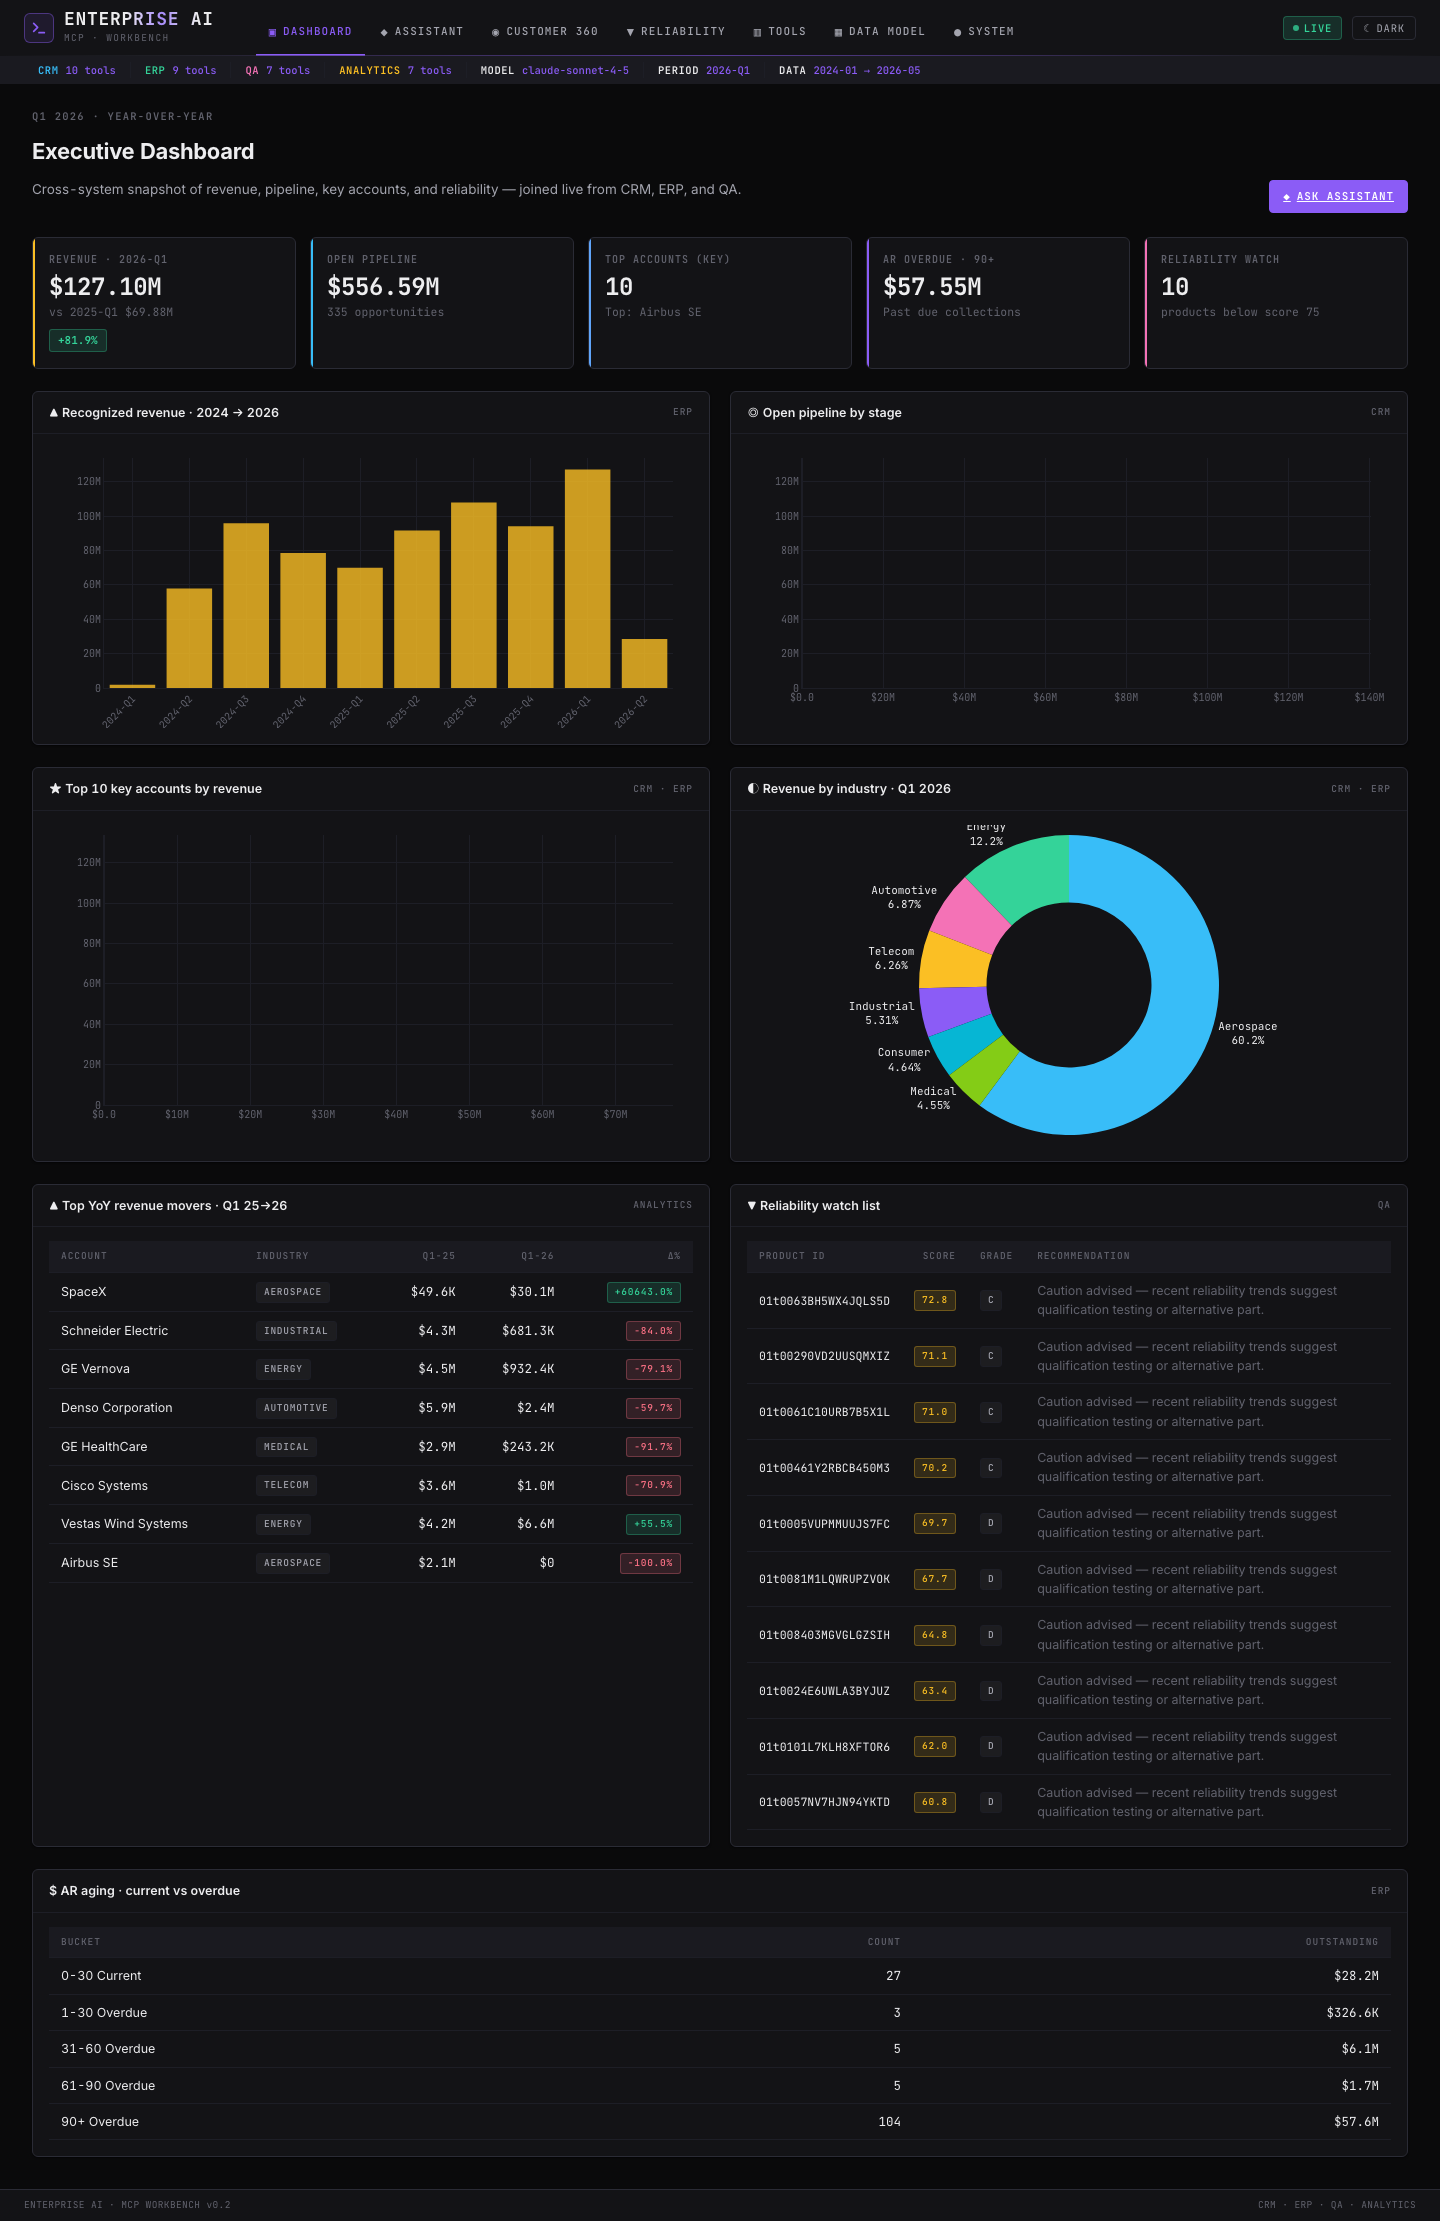
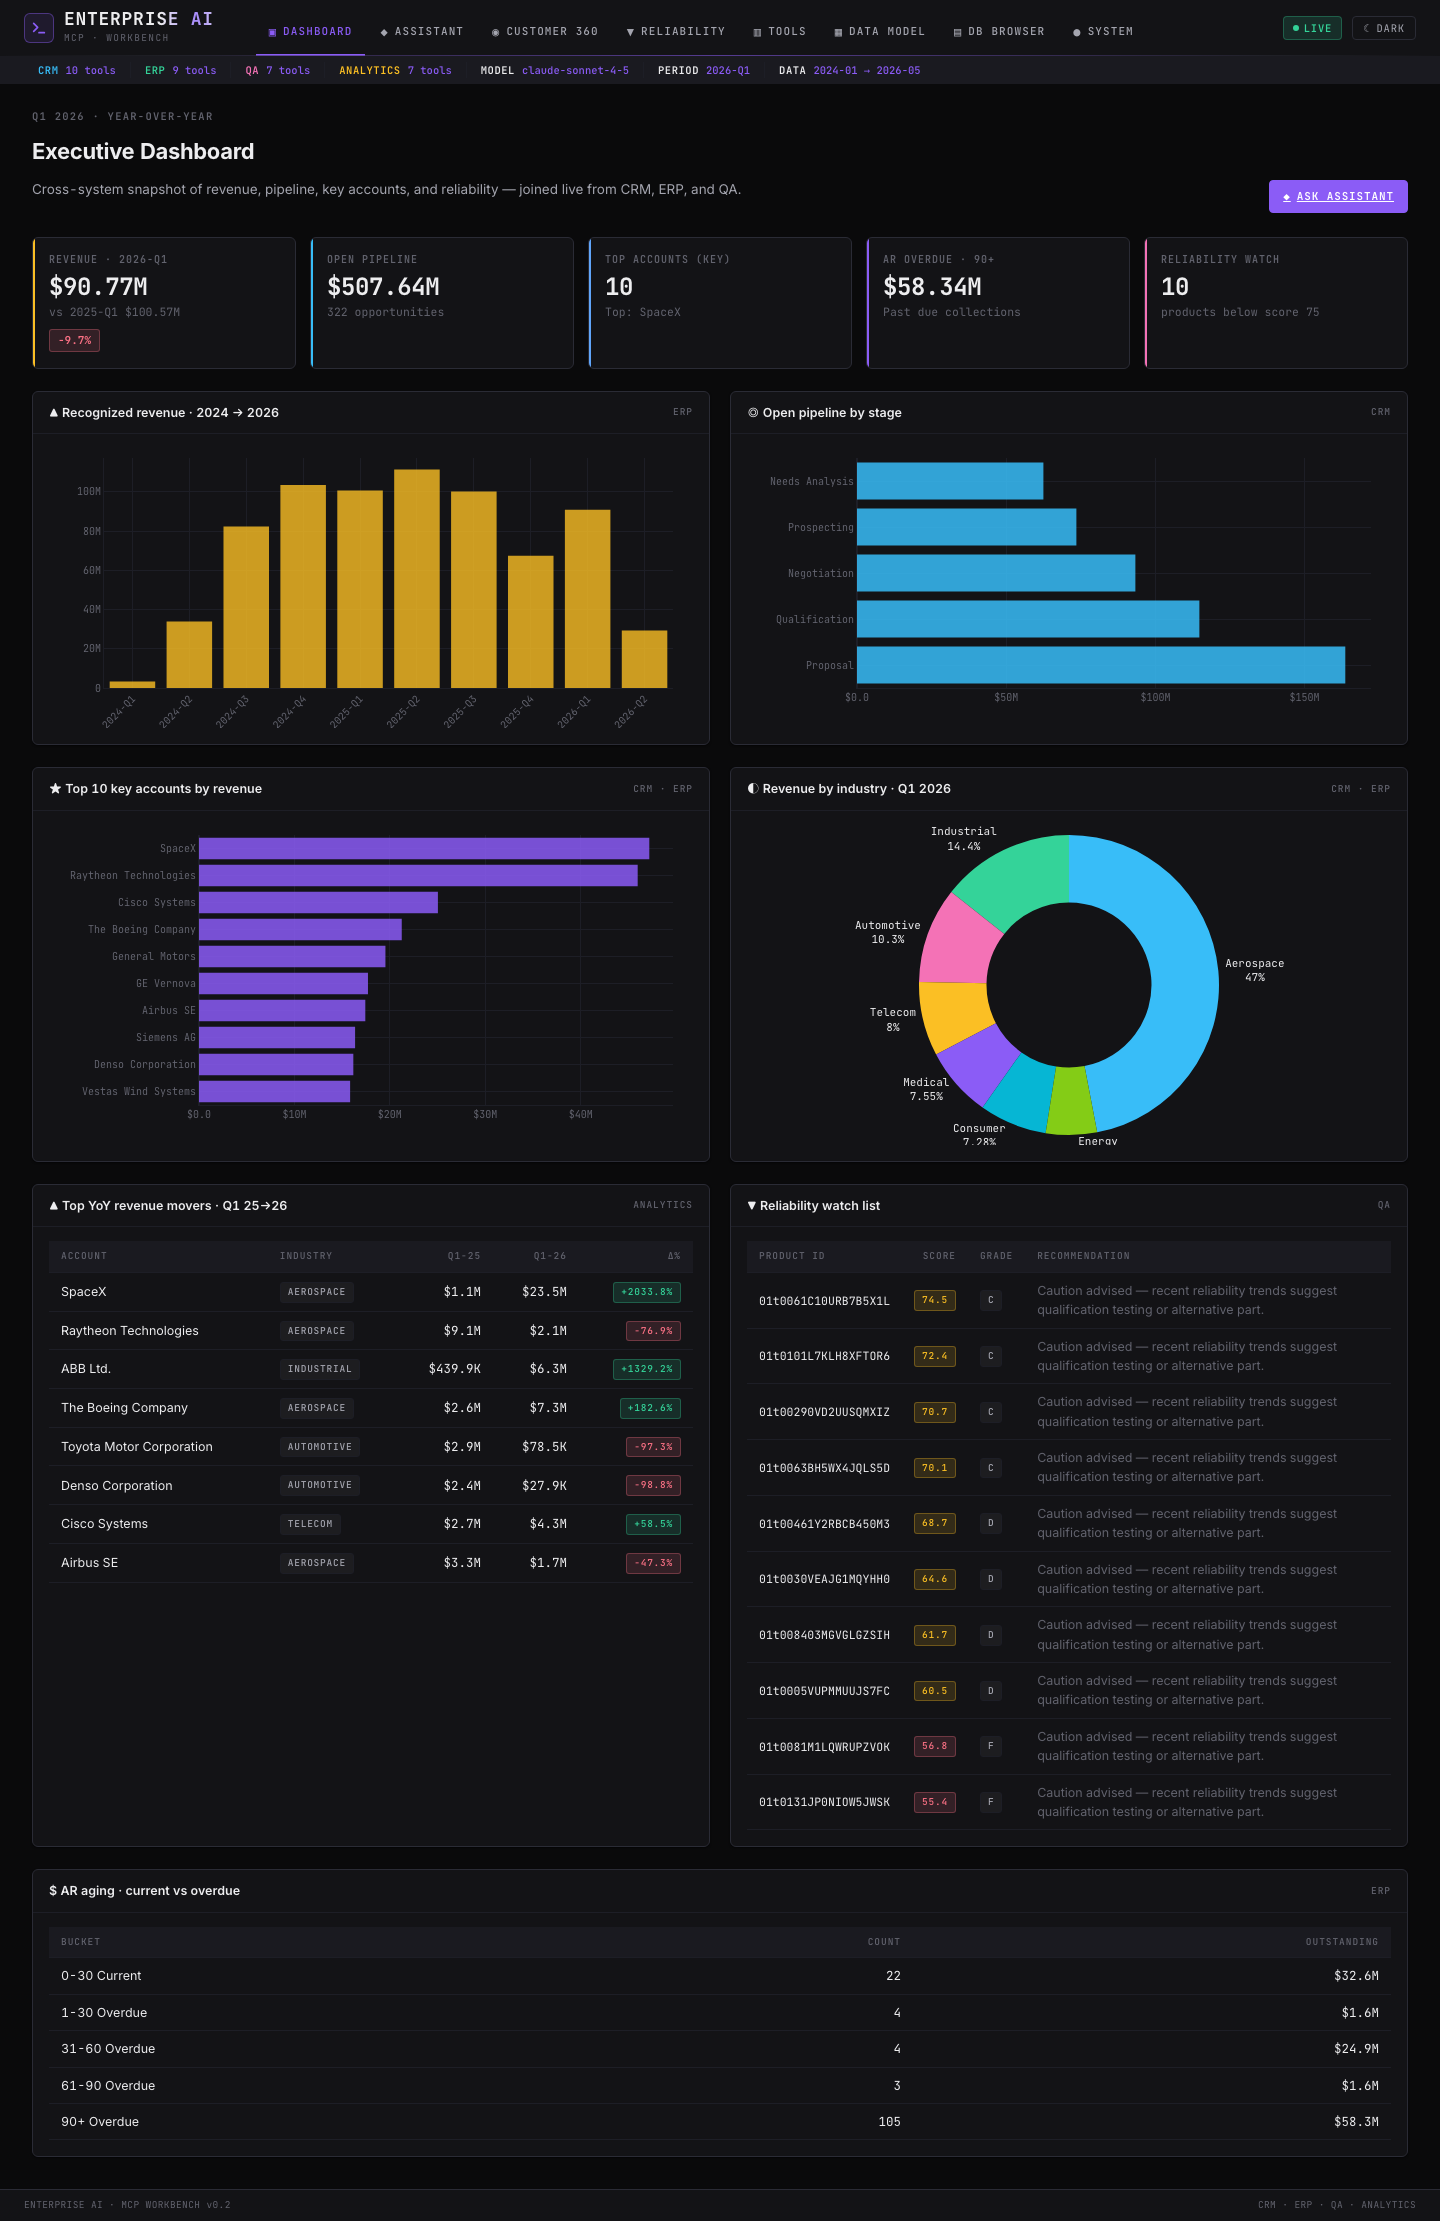
Fix empty bars on dashboard's horizontal-bar charts
Plotly was auto-detecting the y-axis of "Open pipeline by stage" and
"Top 10 key accounts by revenue" as linear/numeric, so the string
category names (stage names, account names) collapsed to undefined
positions and the bars rendered at zero size. Force `type: 'category'`
on the y-axis and increase the left margin (with `automargin`) so the
labels are not clipped.

Regenerated the dashboard screenshots used by the README.

diff --git a/webapp/static/js/dashboard.js b/webapp/static/js/dashboard.js
@@ -85,8 +85,12 @@
         marker: { color: palette.crm, opacity: 0.85 },
         hovertemplate: '%{y}<br>$%{x:,.0f}<br>weighted: $%{customdata:,.0f}<extra></extra>',
         customdata: stages.map(s => s.weighted_amount),
-    }], { ...commonLayout, xaxis: { ...commonLayout.xaxis, tickformat: '$,.2s' } },
-        { displayModeBar: false, responsive: true });
+    }], {
+        ...commonLayout,
+        xaxis: { ...commonLayout.xaxis, tickformat: '$,.2s' },
+        yaxis: { ...commonLayout.yaxis, type: 'category', automargin: true },
+        margin: { ...commonLayout.margin, l: 110 },
+    }, { displayModeBar: false, responsive: true });
 
     // ----- Top accounts -----
     const top = data.top_key_accounts;
@@ -97,8 +101,12 @@
         marker: { color: palette.brand, opacity: 0.85 },
         hovertemplate: '%{y}<br>Revenue: $%{x:,.0f}<br>Pipeline: $%{customdata:,.0f}<extra></extra>',
         customdata: top.map(r => r.open_pipeline).reverse(),
-    }], { ...commonLayout, xaxis: { ...commonLayout.xaxis, tickformat: '$,.2s' } },
-        { displayModeBar: false, responsive: true });
+    }], {
+        ...commonLayout,
+        xaxis: { ...commonLayout.xaxis, tickformat: '$,.2s' },
+        yaxis: { ...commonLayout.yaxis, type: 'category', automargin: true },
+        margin: { ...commonLayout.margin, l: 150 },
+    }, { displayModeBar: false, responsive: true });
 
     // ----- Industry donut -----
     const ind = data.revenue_by_industry;
